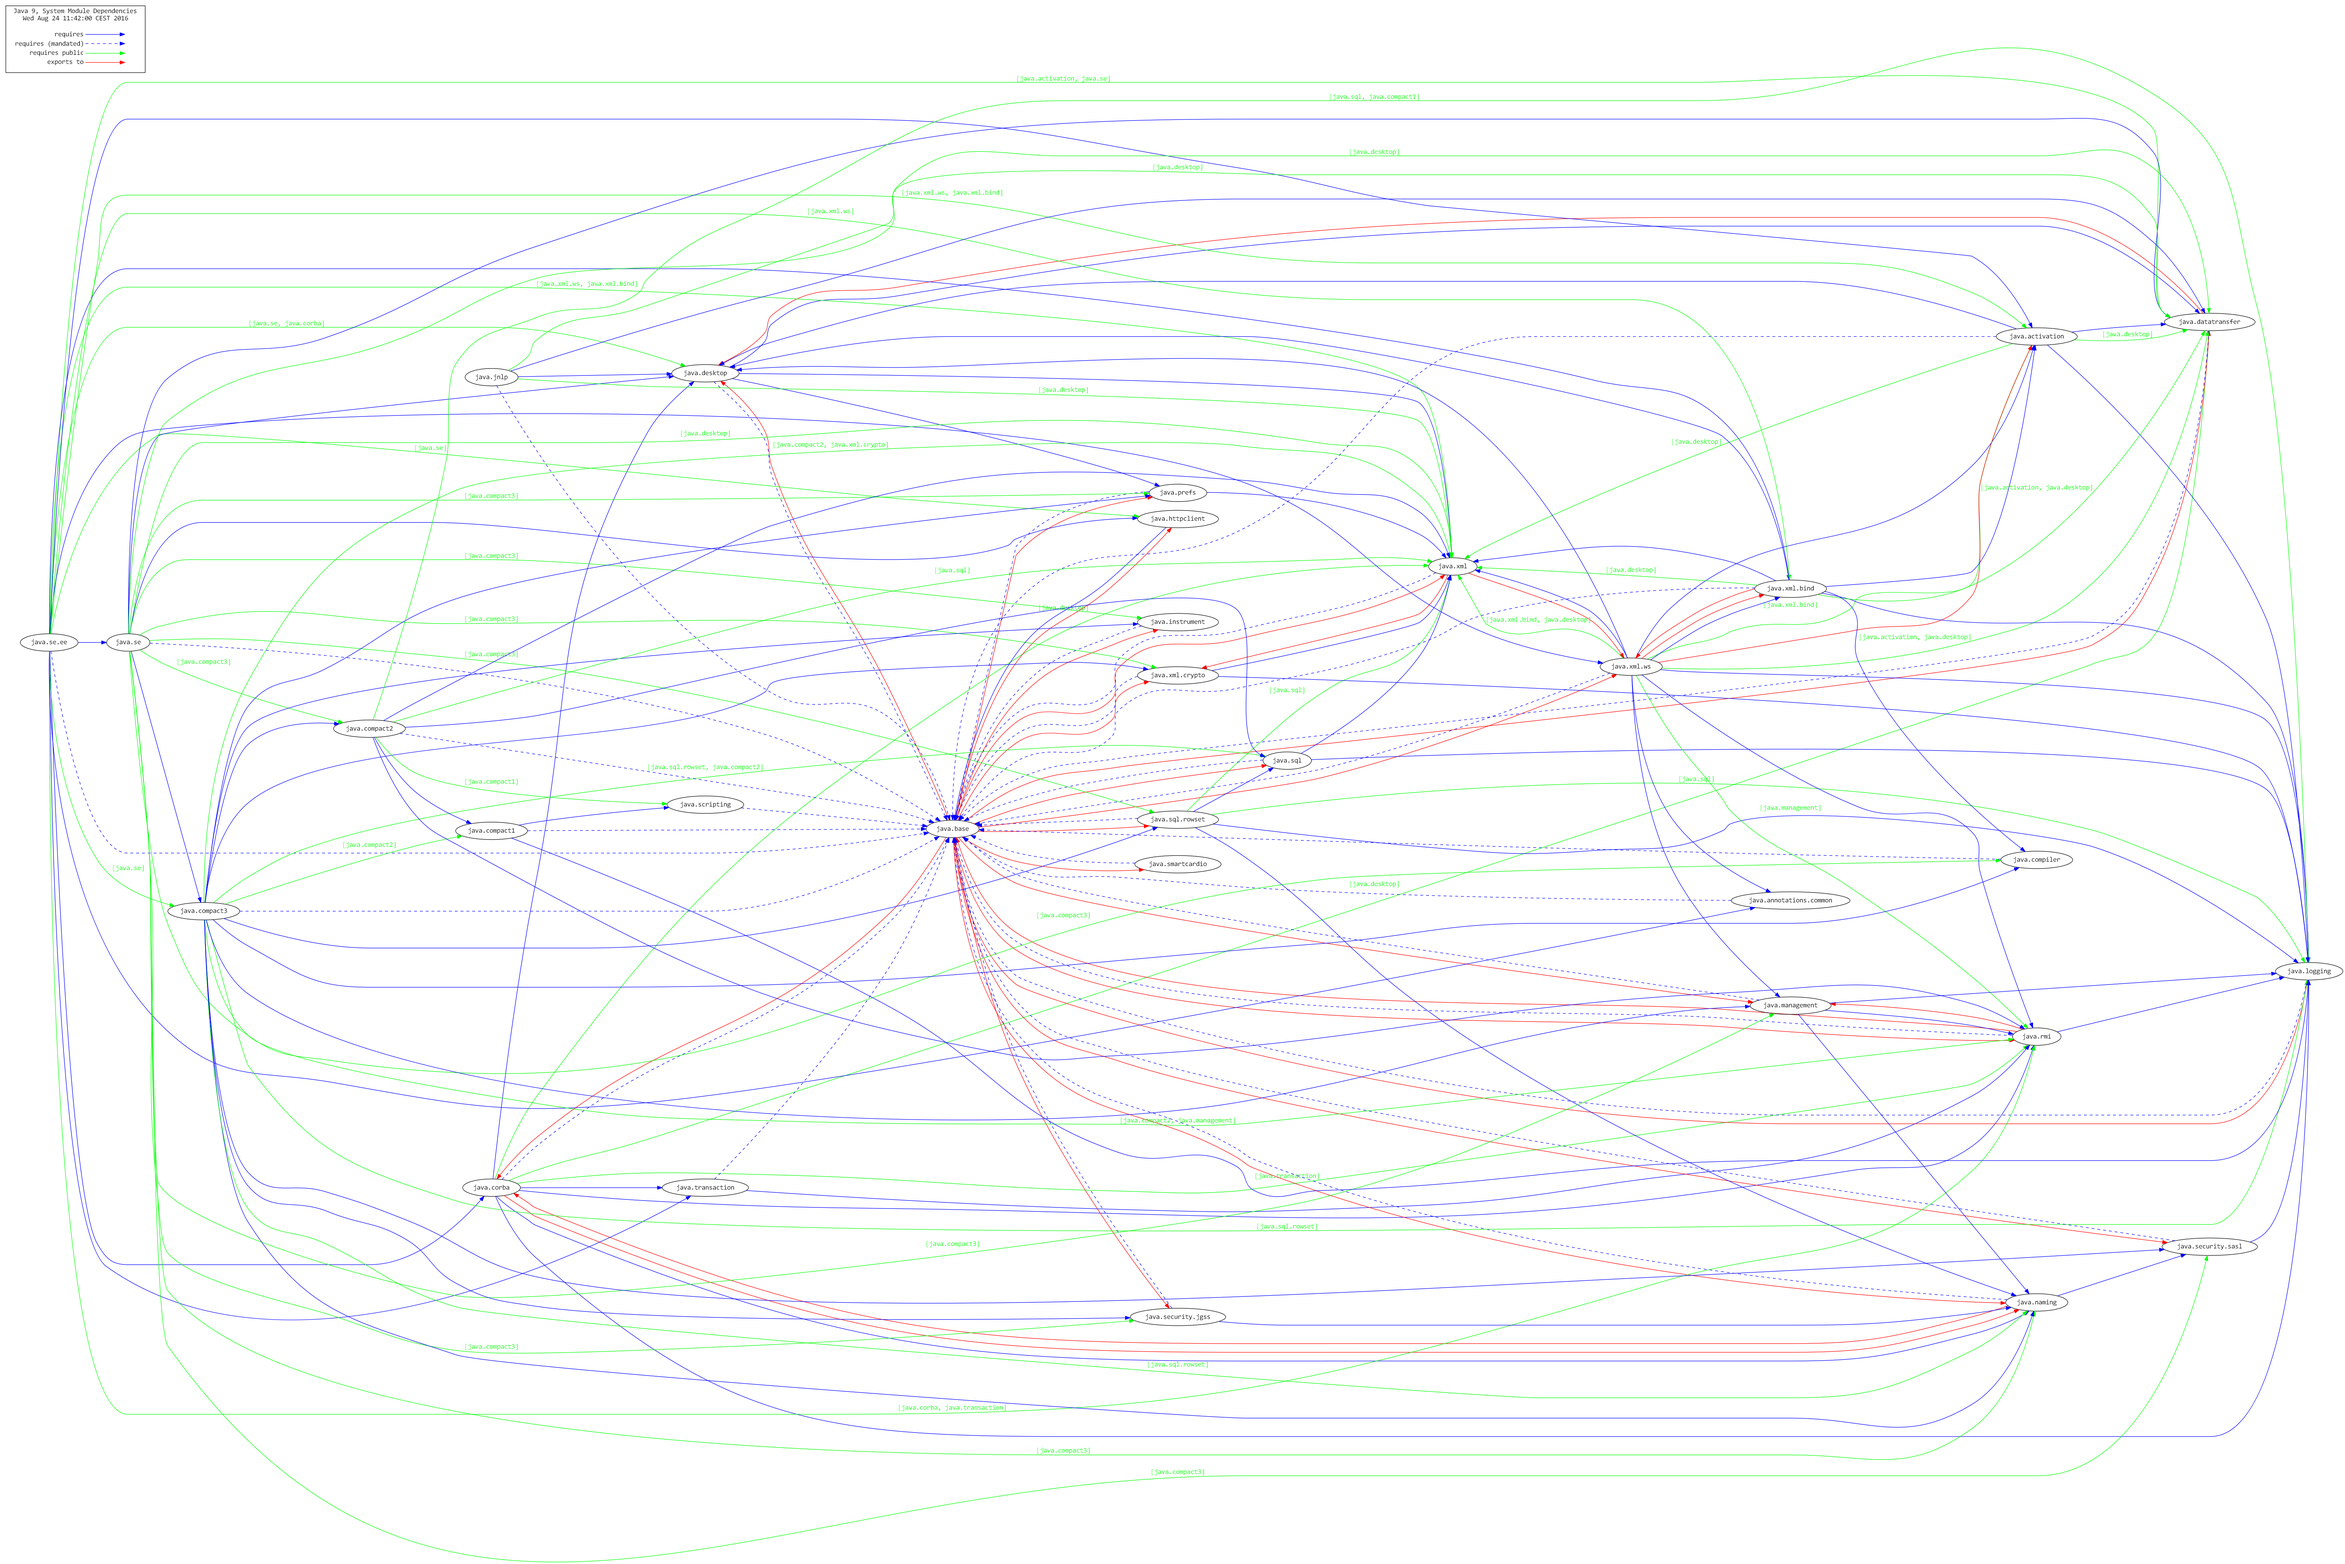
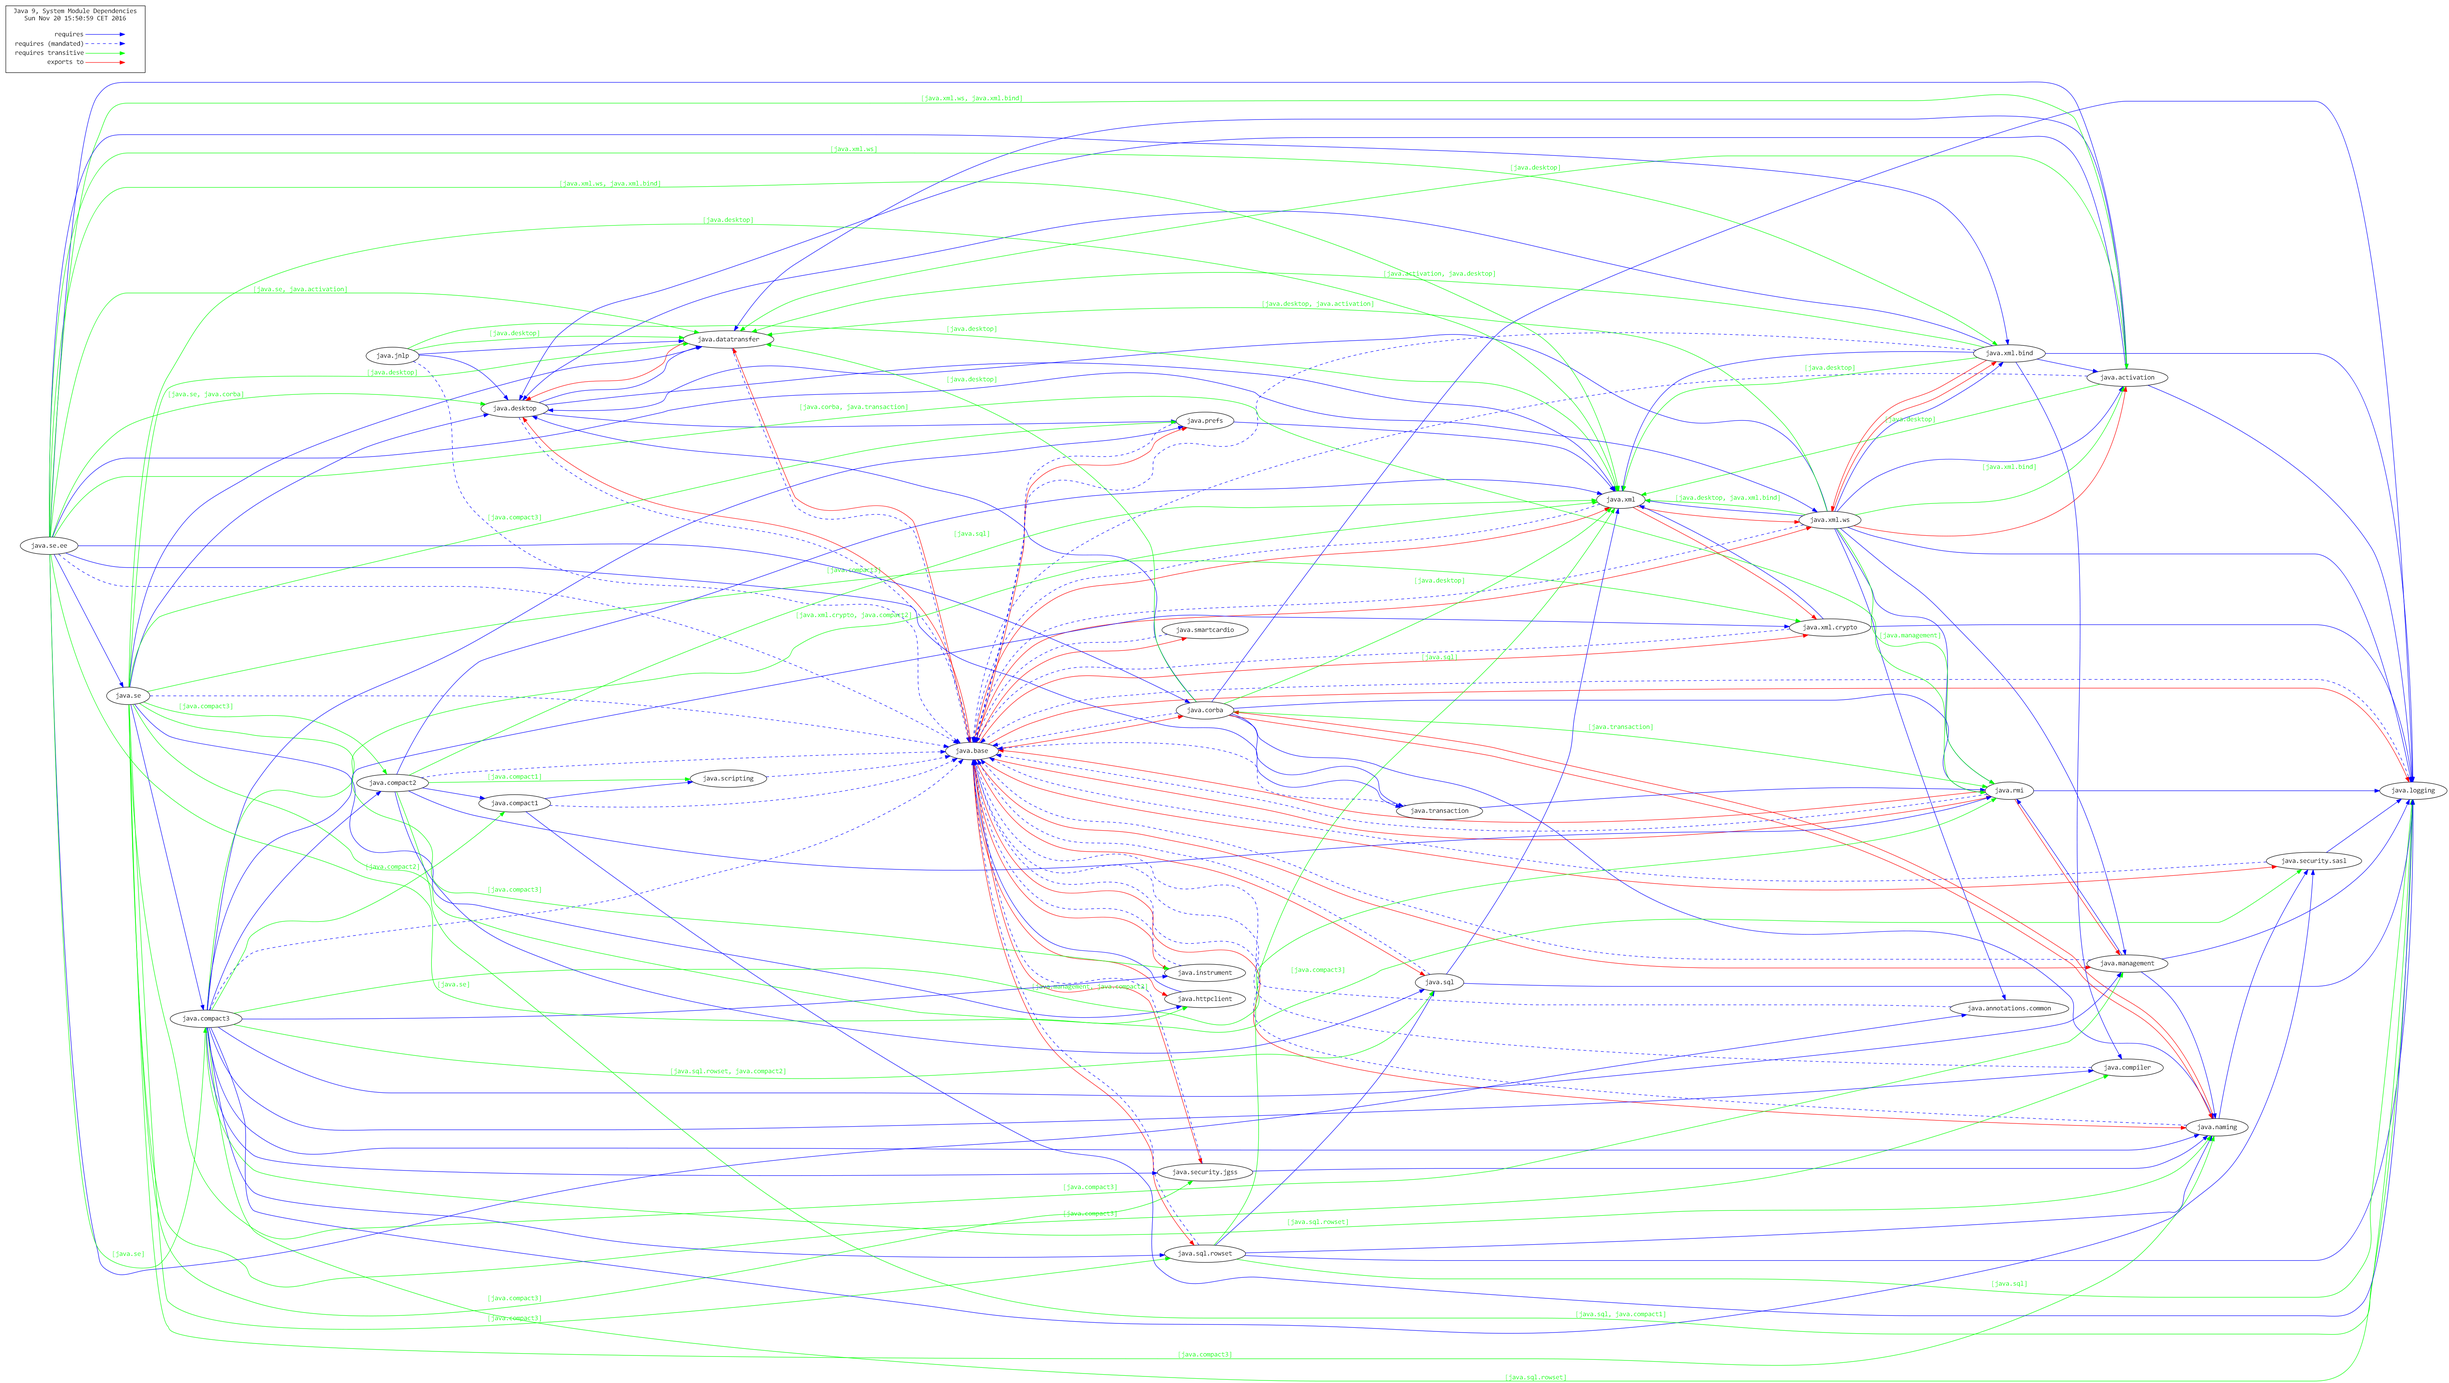
Update DepVis to 0.2, now compatible with Jigsaw b144

diff --git a/depvis/src/depvis/depvis/JigsawDepVisualizer.java b/depvis/src/depvis/depvis/JigsawDepVisualizer.java
@@ -53,10 +53,10 @@ public class JigsawDepVisualizer {
             GraphVizHelper.graph.nodeWith(GraphVizHelper.getNodeStyle(modDesc)).node(modNode);
 
             // create all types of graph connections between nodes 
-            //     note : this might add more nodes (nodes for targets of requires, requires public, exports to)
-            createGraphForModulesRequires       (allModDescs, modDesc, modNode);
-            createGraphForModulesRequiresPublic (allModDescs, modDesc, modNode);
-            createGraphForModulesExportsTo      (allModDescs, modDesc, modNode);
+            //     note : this might add more nodes (nodes for targets of requires, requires transitive, exports to)
+            createGraphForModulesRequires           (allModDescs, modDesc, modNode);
+            createGraphForModulesRequiresTransitive (allModDescs, modDesc, modNode);
+            createGraphForModulesExportsTo          (allModDescs, modDesc, modNode);
         }
 
         GraphVizHelper.writeGraphToFile();
@@ -151,16 +151,16 @@ public class JigsawDepVisualizer {
 
     // ---------------------------------------------------------------------------------------------------------------------------------------
 
-    // create the GraphViz edges for requires-public (limited to 1-transitive for now)
+    // create the GraphViz edges for requires-transitive (limited to 1-transitive for now)
 
-    private void createGraphForModulesRequiresPublic(Set<ModuleDescriptor> allModDescs, ModuleDescriptor modDesc, Node modNode) {
-        Set<String>   reqPublics = new HashSet<String>();
-        HashMap<String,ArrayList<String>> modNamesWhichHaveReq2AsPublic = new HashMap<String,ArrayList<String>>();
+    private void createGraphForModulesRequiresTransitive(Set<ModuleDescriptor> allModDescs, ModuleDescriptor modDesc, Node modNode) {
+        Set<String>   reqTransitives = new HashSet<String>();
+        HashMap<String,ArrayList<String>> modNamesWhichHaveReq2AsTransitive = new HashMap<String,ArrayList<String>>();
 
         // check all module's requires, i.e. "first level"
         modDesc.requires()
             .stream()
-            .filter (req -> JigsawDepConfiguration.showRequiresPublic)		// show any requires-public at all?
+            .filter (req -> JigsawDepConfiguration.showRequiresTransitive)		// show any requires-transitive at all?
             .forEach(req1 -> {
                 // for each of the requires, search for the module (unfortunately the Requires class only holds the module's name)
                 allModDescs
@@ -170,38 +170,38 @@ public class JigsawDepVisualizer {
                         // now check of this module's requires (2nd level) 
                         req1ModDesc.requires()
                             .stream()
-                            // use any if requires-public
+                            // use any if requires-transitive
                             .filter  (req2 -> req2.modifiers().contains(Modifier.TRANSITIVE))
                             .forEach (req2 -> {
-                                StatisticsHelper.reqPublicTotalCounter++;
+                                StatisticsHelper.reqTransitiveTotalCounter++;
             
-                                // and save the name of this requires-public's target module
-                                reqPublics.add(req2.name());
+                                // and save the name of this requires-transitive's target module
+                                reqTransitives.add(req2.name());
             
                                 // also keep the name of the "middle" module so that we can add its name as a label
-                                ArrayList<String> modsWhichHaveReq2AsPublic = new ArrayList<String>();
-                                if (modNamesWhichHaveReq2AsPublic.get(req2.name()) != null) {
-                                    modsWhichHaveReq2AsPublic = modNamesWhichHaveReq2AsPublic.get(req2.name());
+                                ArrayList<String> modsWhichHaveReq2AsTransitive = new ArrayList<String>();
+                                if (modNamesWhichHaveReq2AsTransitive.get(req2.name()) != null) {
+                                    modsWhichHaveReq2AsTransitive = modNamesWhichHaveReq2AsTransitive.get(req2.name());
                                 }
-                                modsWhichHaveReq2AsPublic.add(req1.name());
-                                modNamesWhichHaveReq2AsPublic.put(req2.name(), modsWhichHaveReq2AsPublic);
+                                modsWhichHaveReq2AsTransitive.add(req1.name());
+                                modNamesWhichHaveReq2AsTransitive.put(req2.name(), modsWhichHaveReq2AsTransitive);
                             });
                     });
             });
 
-        // for all (non-duplicate) requires-public connections
-        reqPublics
+        // for all (non-duplicate) requires-transitive connections
+        reqTransitives
             .stream()
-            .filter  (req -> JigsawDepConfiguration.showRequiresPublic)		// show any requires-public at all?
-            .filter  (reqPublicTargetName -> JigsawDepConfiguration.matchesFilters(reqPublicTargetName))
-            .forEach (reqPublicTargetName -> {
-                StatisticsHelper.reqPublicCounter++;
+            .filter  (req -> JigsawDepConfiguration.showRequiresTransitive)		// show any requires-transitive at all?
+            .filter  (reqTransitiveTargetName -> JigsawDepConfiguration.matchesFilters(reqTransitiveTargetName))
+            .forEach (reqTransitiveTargetName -> {
+                StatisticsHelper.reqTransitiveCounter++;
 
-                ModuleDescriptor targetModDesc = getModuleDescriptorFromName(allModDescs, reqPublicTargetName).orElse(null);
+                ModuleDescriptor targetModDesc = getModuleDescriptorFromName(allModDescs, reqTransitiveTargetName).orElse(null);
                 GraphVizHelper.graph.fromToNode(
                          modNode,                       GraphVizHelper.getNodeStyle(modDesc),
-                         new Node(reqPublicTargetName), GraphVizHelper.getNodeStyle(targetModDesc),
-                         modNamesWhichHaveReq2AsPublic.get(reqPublicTargetName).toString(), GraphVizHelper.reqPublicStyle);
+                         new Node(reqTransitiveTargetName), GraphVizHelper.getNodeStyle(targetModDesc),
+                         modNamesWhichHaveReq2AsTransitive.get(reqTransitiveTargetName).toString(), GraphVizHelper.reqPublicStyle);
             });
     }
 

diff --git a/depvis/src/depvis/depvis/JigsawDepConfiguration.java b/depvis/src/depvis/depvis/JigsawDepConfiguration.java
@@ -25,11 +25,11 @@ class JigsawDepConfiguration {
 
     // ---------------------------------------------------------------------------------------------------------------------------------------
 
-    static boolean showRequires = true;         // do we want to visualize requires?
-    static boolean showRequiresMandated = true;	// do we want to visualize requires mandated?
-    static boolean showRequiresPublic = true;   // do we want to visualize requires public?
-    static boolean showExports   = true;        // do we want to print exports? (will not be visualized as there is no direction)
-    static boolean showExportsTo = true;        // do we want to visualize exports-to?
+    static boolean showRequires = true;           // do we want to visualize requires?
+    static boolean showRequiresMandated = true;   // do we want to visualize requires mandated?
+    static boolean showRequiresTransitive = true; // do we want to visualize requires transitive?
+    static boolean showExports   = true;          // do we want to print exports? (will not be visualized as there is no direction)
+    static boolean showExportsTo = true;          // do we want to visualize exports-to?
 
     // ---------------------------------------------------------------------------------------------------------------------------------------
 
@@ -91,11 +91,11 @@ class JigsawDepConfiguration {
         useModulePath        = Boolean.valueOf(propsFromFile.getProperty("depvis.useModulePath",    Boolean.toString(useModulePath)));
         modulePath           = propsFromFile.getProperty("depvis.modulePath", modulePath);
 
-        showRequires         = Boolean.valueOf(propsFromFile.getProperty("depvis.showRequires",         Boolean.toString(showRequires)));
-        showRequiresMandated = Boolean.valueOf(propsFromFile.getProperty("depvis.showRequiresMandated", Boolean.toString(showRequiresMandated)));
-        showRequiresPublic   = Boolean.valueOf(propsFromFile.getProperty("depvis.showRequiresPublic",   Boolean.toString(showRequiresPublic)));
-        showExports          = Boolean.valueOf(propsFromFile.getProperty("depvis.showExports",          Boolean.toString(showExports)));
-        showExportsTo        = Boolean.valueOf(propsFromFile.getProperty("depvis.showExportsTo",        Boolean.toString(showExportsTo)));
+        showRequires           = Boolean.valueOf(propsFromFile.getProperty("depvis.showRequires",           Boolean.toString(showRequires)));
+        showRequiresMandated   = Boolean.valueOf(propsFromFile.getProperty("depvis.showRequiresMandated",   Boolean.toString(showRequiresMandated)));
+        showRequiresTransitive = Boolean.valueOf(propsFromFile.getProperty("depvis.showRequiresTransitive", Boolean.toString(showRequiresTransitive)));
+        showExports            = Boolean.valueOf(propsFromFile.getProperty("depvis.showExports",            Boolean.toString(showExports)));
+        showExportsTo          = Boolean.valueOf(propsFromFile.getProperty("depvis.showExportsTo",          Boolean.toString(showExportsTo)));
 
         outputFileName       = propsFromFile.getProperty("depvis.outputFileName", outputFileName);
         showLegend           = Boolean.valueOf(propsFromFile.getProperty("depvis.showLegend", Boolean.toString(showLegend)));

diff --git a/depvis/src/depvis/depvis/StatisticsHelper.java b/depvis/src/depvis/depvis/StatisticsHelper.java
@@ -22,8 +22,8 @@ class StatisticsHelper {
     static int reqCounter = 0;                   // number of requires relations found
     static int reqTotalMandatedCounter = 0;      // number of requires mandated relations found
     static int reqMandatedCounter = 0;           // number of requires mandated relations found (filtered, no duplicates)
-    static int reqPublicTotalCounter = 0;        // number of requires public   relations found
-    static int reqPublicCounter = 0;             // number of requires public   relations found (filtered, no duplicates)
+    static int reqTransitiveTotalCounter = 0;    // number of requires transitive relations found
+    static int reqTransitiveCounter = 0;         // number of requires transitive relations found (filtered, no duplicates)
     static int exportsToTotalCounter = 0;        // number of exportsTo relations found
     static int exportsToCounter = 0;             // number of exportsTo relations found (filtered, no duplicates)
 
@@ -36,7 +36,7 @@ class StatisticsHelper {
         System.out.println("  Found " + reqTotalCounter                   + " requires in total (shown because of filter/config: " + reqCounter + ").");
         System.out.println("    This includes " + reqTotalMandatedCounter + " requires mandated in total (shown because of filter/config: " + reqMandatedCounter + ").");
 
-        System.out.println("  Found " + reqPublicTotalCounter   + " requires-public in total (shown because of filter/config/no-duplicates: " + reqPublicCounter + ").");
-        System.out.println("  Found " + exportsToTotalCounter   + " exports-to in total (shown because of filter/config/no-duplicates: " + exportsToCounter + ").");
+        System.out.println("  Found " + reqTransitiveTotalCounter   + " requires-transitive in total (shown because of filter/config/no-duplicates: " + reqTransitiveCounter + ").");
+        System.out.println("  Found " + exportsToTotalCounter       + " exports-to in total (shown because of filter/config/no-duplicates: " + exportsToCounter + ").");
     }
 }

diff --git a/depvis/src/depvis/depvis/GraphVizHelper.java b/depvis/src/depvis/depvis/GraphVizHelper.java
@@ -106,7 +106,7 @@ class GraphVizHelper {
         sb.append("  key [label=<<table border=\"0\" cellpadding=\"2\" cellspacing=\"0\" cellborder=\"0\">\n");
         sb.append("    <tr><td align=\"right\" port=\"i1\">requires</td></tr>\n");
         sb.append("    <tr><td align=\"right\" port=\"i2\">requires (mandated)</td></tr>\n");
-        sb.append("    <tr><td align=\"right\" port=\"i3\">requires public</td></tr>\n");
+        sb.append("    <tr><td align=\"right\" port=\"i3\">requires transitive</td></tr>\n");
         sb.append("    <tr><td align=\"right\" port=\"i4\">exports to</td></tr>\n");
         sb.append("    </table>>,fontname=\"Consolas\"]\n");
         sb.append("  key2 [label=<<table border=\"0\" cellpadding=\"2\" cellspacing=\"0\" cellborder=\"0\">\n");
